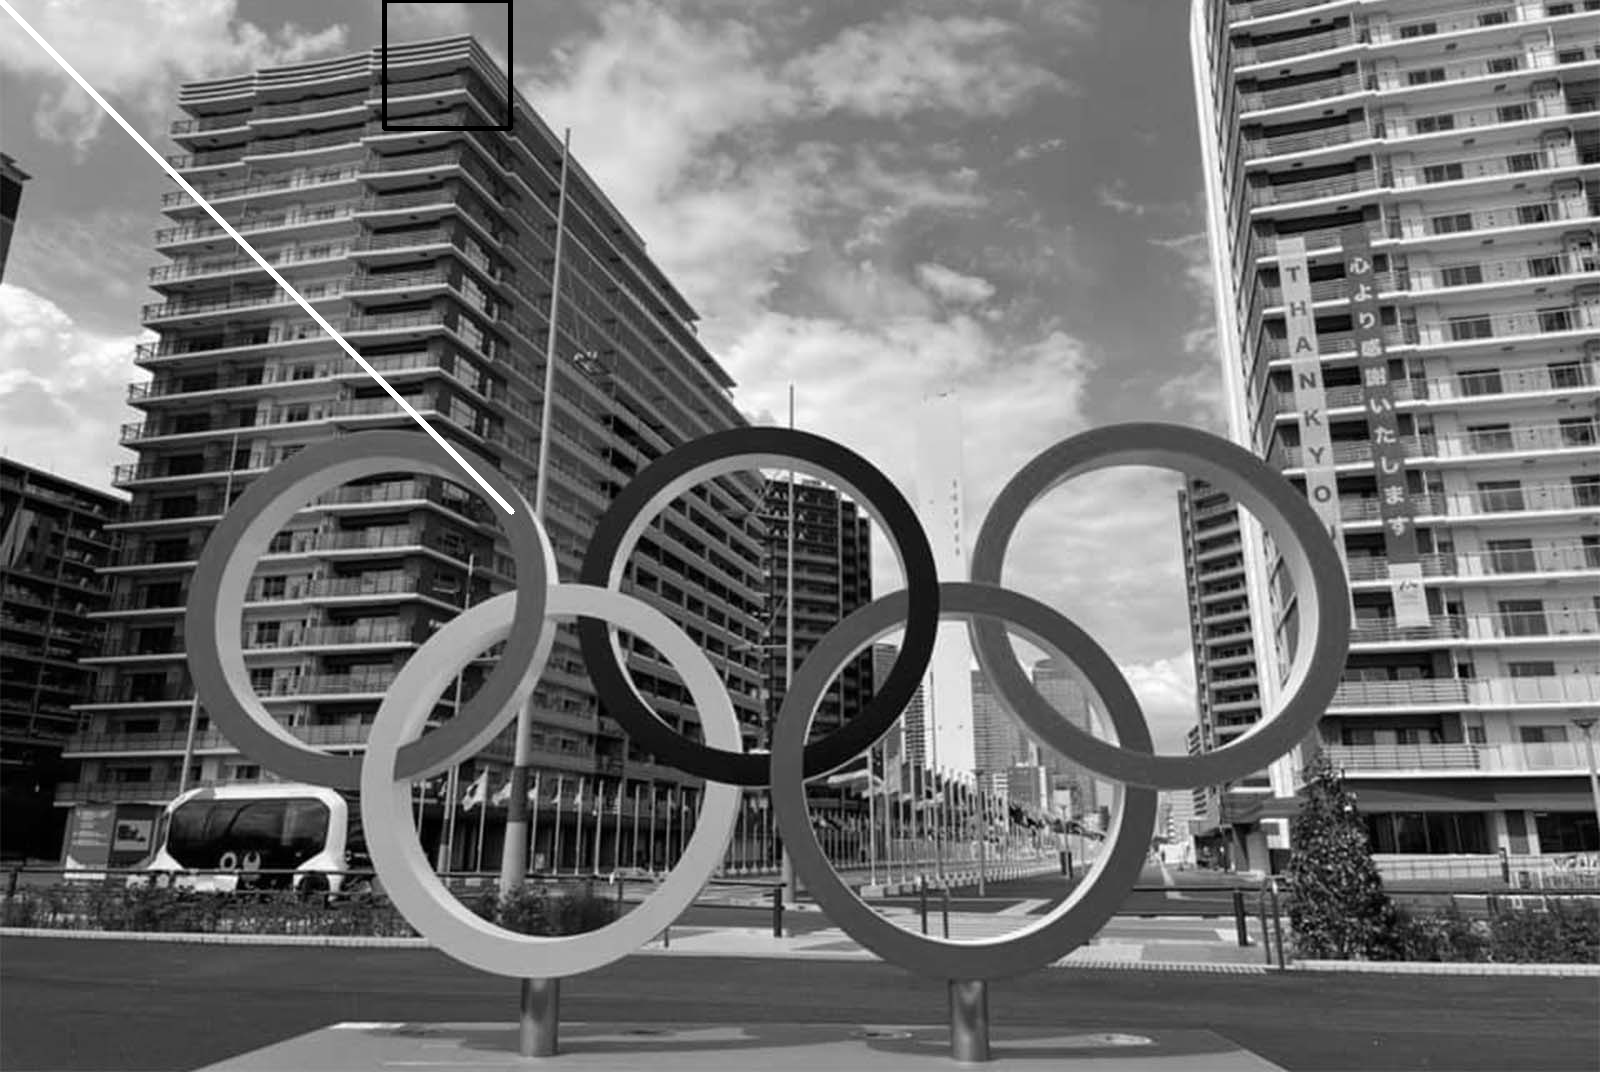
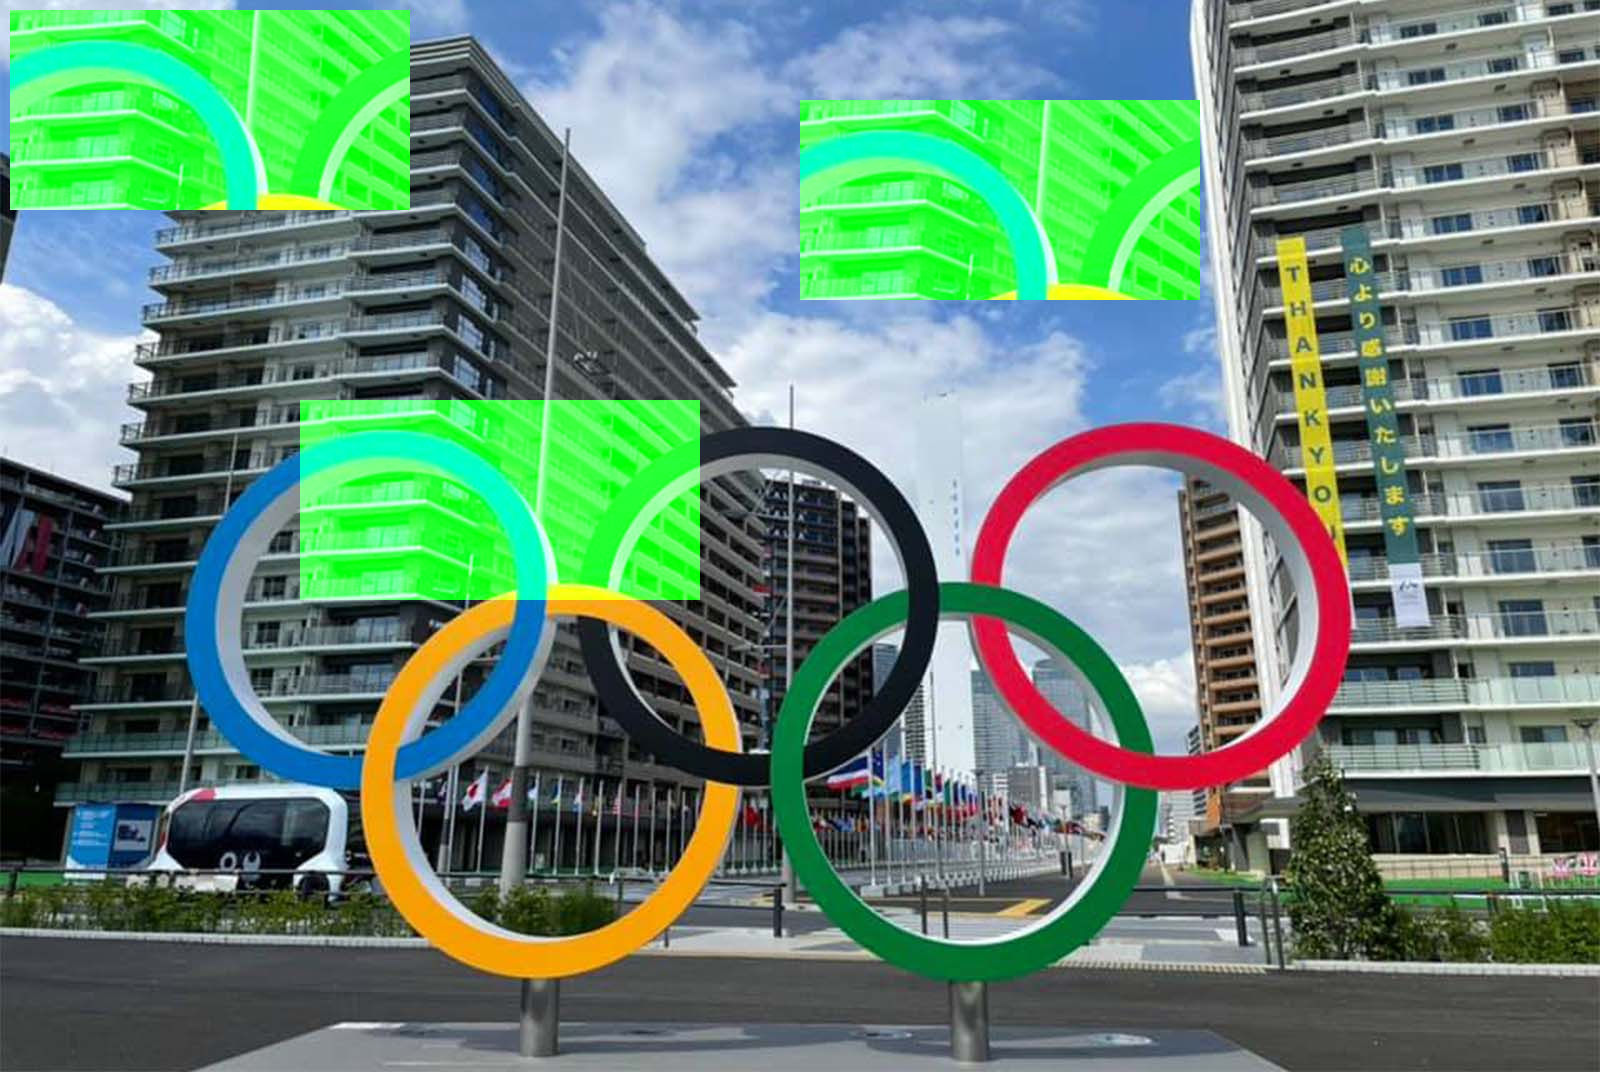
練習02

diff --git a/logo0727.py b/logo0727.py
@@ -1,0 +1,28 @@
+import cv2 as cv
+
+#加载两张图片
+img1 = cv.imread('./images/test072601.jpg')
+img2 = cv.imread('./images/07060203.jpg')
+#我想在左上角放置一个logo，所以我创建了一个 ROI,并且这个ROI的宽和高为我想放置的logo的宽和高
+rows,cols,channels = img2.shape
+roi = img1[0:rows,0:cols]
+#现在创建一个logo的掩码，通过对logo图像进行阈值，并对阈值结果并创建其反转掩码
+img2gray = cv.cvtColor(img2,cv.COLOR_BGR2GRAY)
+ret,mask = cv.threshold(img2gray,0,100,cv.THRESH_BINARY)
+mask_inv = cv.bitwise_not(mask)
+#现在使 ROI 中的徽标区域变黑
+img1_bg = cv.bitwise_and(roi,roi,mask = mask_inv)
+#仅从徽标图像中获取徽标区域。
+img2_fg = cv.bitwise_and(img2,img2,mask = mask)
+#在 ROI 中放置徽标并修改主图像
+dst = cv.add(img1_bg,img2_fg)
+img1 [0:rows,0:cols] = dst
+cv.imshow('img2gray',img2gray)
+cv.imshow('mask',mask)
+cv.imshow('mask_inv',mask_inv)
+cv.imshow('img1_bg',img1_bg)
+cv.imshow('img2_fg',img2_fg)
+cv.imshow('res',img1)
+cv.imshow
+cv.waitKey(0)
+cv.destroyAllWindows()

diff --git a/border0727.py b/border0727.py
@@ -1,0 +1,17 @@
+import cv2 as cv
+import numpy as np
+from matplotlib import pyplot as plt
+BLUE = [255,0,0]
+img1 = cv.imread('test.png')
+replicate = cv.copyMakeBorder(img1,10,10,10,10,cv.BORDER_REPLICATE)
+reflect = cv.copyMakeBorder(img1,10,10,10,10,cv.BORDER_REFLECT)
+reflect101 = cv.copyMakeBorder(img1,10,10,10,10,cv.BORDER_REFLECT_101)
+wrap = cv.copyMakeBorder(img1,10,10,10,10,cv.BORDER_WRAP)
+constant= cv.copyMakeBorder(img1,10,10,10,10,cv.BORDER_CONSTANT,value=BLUE)
+plt.subplot(231),plt.imshow(img1,'gray'),plt.title('ORIGINAL')
+plt.subplot(232),plt.imshow(replicate,'gray'),plt.title('REPLICATE')
+plt.subplot(233),plt.imshow(reflect,'gray'),plt.title('REFLECT')
+plt.subplot(234),plt.imshow(reflect101,'gray'),plt.title('REFLECT_101')
+plt.subplot(235),plt.imshow(wrap,'gray'),plt.title('WRAP')
+plt.subplot(236),plt.imshow(constant,'gray'),plt.title('CONSTANT')
+plt.show()

diff --git a/blue0727.py b/blue0727.py
@@ -1,0 +1,30 @@
+import cv2
+import numpy as np
+
+def nothing(x):
+    pass
+
+#開圖
+img1 = cv2.imread('messigray1.png')
+img2 = cv2.cvtColor(img1,cv2.COLOR_BGR2HSV)
+cv2.namedWindow('img1')
+cv2.createTrackbar('A','img1',0,255,nothing)
+cv2.createTrackbar('B','img1',0,255,nothing)
+
+while(True):
+    A = cv2.getTrackbarPos('A','img1')
+    B = cv2.getTrackbarPos('B','img1')
+    lower_blue = np.array([A,50,50])
+    upper_blue = np.array([B,255,255])
+    # Threshold the HSV image to get only blue colors
+    mask = cv2.inRange(img2, lower_blue, upper_blue)
+    # Bitwise-AND mask and original image
+    res = cv2.bitwise_and(img1,img1, mask= mask)
+    #秀圖
+    cv2.imshow('img1',img1)
+    cv2.imshow('img2',img2)
+    cv2.imshow('res',res)
+    k= cv2.waitKey(1) & 0xFF
+    if k == 27:
+        break
+cv2.destroyAllWindows()

diff --git a/072608.py b/072608.py
@@ -1,0 +1,23 @@
+import cv2
+
+#開圖
+img1 = cv2.imread('./images/test072601.jpg')
+
+print(img1.shape)
+print(img1[100,200])
+print(img1.item(100,200,1))
+# img1[200:400,300:700]=[255,0,0]
+roi = img1[400:600,300:700]  
+roi[:,:,1]=255
+# roi[:,:,2]=0
+h,w,a =roi.shape
+img1[100:300,800:1200] = roi
+print(len(roi),len(roi[0]))
+img1[10:10+h,10:10+w] = roi
+print(img1.size)
+#秀圖
+cv2.namedWindow('test',cv2.WINDOW_NORMAL)
+cv2.imshow('test',img1)
+cv2.waitKey(0)
+cv2.destroyAllWindows()
+cv2.imwrite('test.png',img1)

diff --git a/072606.py b/072606.py
@@ -1,12 +1,12 @@
 import cv2
 
 def draw_circle(event,x,y,flags,param):
-    if event == cv.EVENT_LBUTTONDBLCLK:
-        cv.circle(img,(x,y),100,(255,0,0),-1)
+    if event == cv2.EVENT_LBUTTONDBLCLK:
+        cv2.circle(img1,(x,y),100,(255,0,0),-1)
 img1 = cv2.imread("./images/test072601.jpg")
 
 cv2.namedWindow("test",cv2.WINDOW_AUTOSIZE)
-cv2.setMouseCallback('image',drawcircle)
+cv2.setMouseCallback('image',draw_circle)
 while(1):
     cv2.imshow('image',img1)
     if cv2.waitKey(20) & 0xFF == 27:

diff --git a/072604.py b/072604.py
@@ -1,0 +1,16 @@
+import numpy as np
+import cv2 as cv
+cap = cv.VideoCapture(1)
+while(True):
+    # 一帧一帧捕捉
+    ret, frame = cap.read()
+    # 我们对帧的操作在这里
+    # gray = cv.cvtColor(frame, cv.COLOR_BGR2GRAY)
+    cv.rectangle(frame,(100,50),(250,300),(255,0,0),5)
+    # 显示返回的每帧
+    cv.imshow('frame',frame)
+    if cv.waitKey(1) & 0xFF == ord('q'):
+        break
+# 当所有事完成，释放 VideoCapture 对象
+cap.release()
+cv.destroyAllWindows()

diff --git a/0726.2.py b/0726.2.py
@@ -1,11 +1,11 @@
 import numpy as np
 import cv2 as cv
 
-img1 = cv.imread('./images/test072601.jpg',0)
+img1 = cv.imread('./images/test072601.jpg',1)
 cv.imshow('image',img1)
 k = cv.waitKey(0)
 if k == 27: # ESC 退出
     cv.destroyAllWindows()
 elif k == ord('s'): # 's' 保存退出
-    cv.imwrite('messigray.png',img1)
+    cv.imwrite('messigray1.png',img1)
     cv.destroyAllWindows()

diff --git a/addweighted0727.py b/addweighted0727.py
@@ -1,0 +1,14 @@
+import cv2 
+
+#開圖
+img1 = cv2.imread('messigray1.png')
+print(img1.shape)
+roi1 = img1[400:600,300:700]
+roi2 = img1[100:300,800:1200]
+dst = cv2.addWeighted(roi1,0.7,roi2,0.3,0)
+img1[100:300,800:1200] = dst
+#秀圖
+cv2.namedWindow('test',cv2.WINDOW_NORMAL)
+cv2.imshow('test',img1)
+cv2.waitKey(0)
+cv2.destroyAllWindows()

diff --git a/072607.py b/072607.py
@@ -16,7 +16,7 @@ def drawcircle(event,x,y,flags,param):
         # cv2.circle(img1,(x,y),100,(255,0,0),3)
         cv2.rectangle(img1,(x,y),(x+100,y+100),(B,G,R),S)
 
-img1 = cv2.imread('./images/test072601.jpg')
+img1 = cv2.imread('messigray1.png')
 
 cv2.namedWindow('image',cv2.WINDOW_AUTOSIZE)
 cv2.setMouseCallback('image',drawcircle)

diff --git a/test.py b/test.py
@@ -1,0 +1,1 @@
+print("hello")
